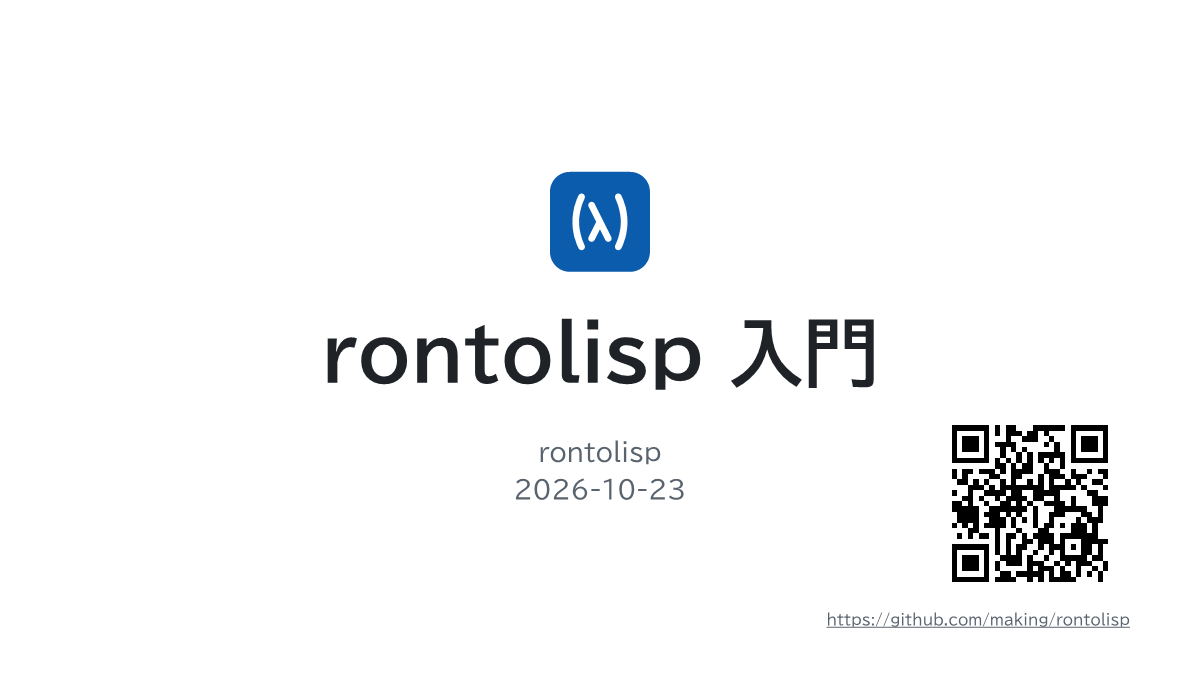
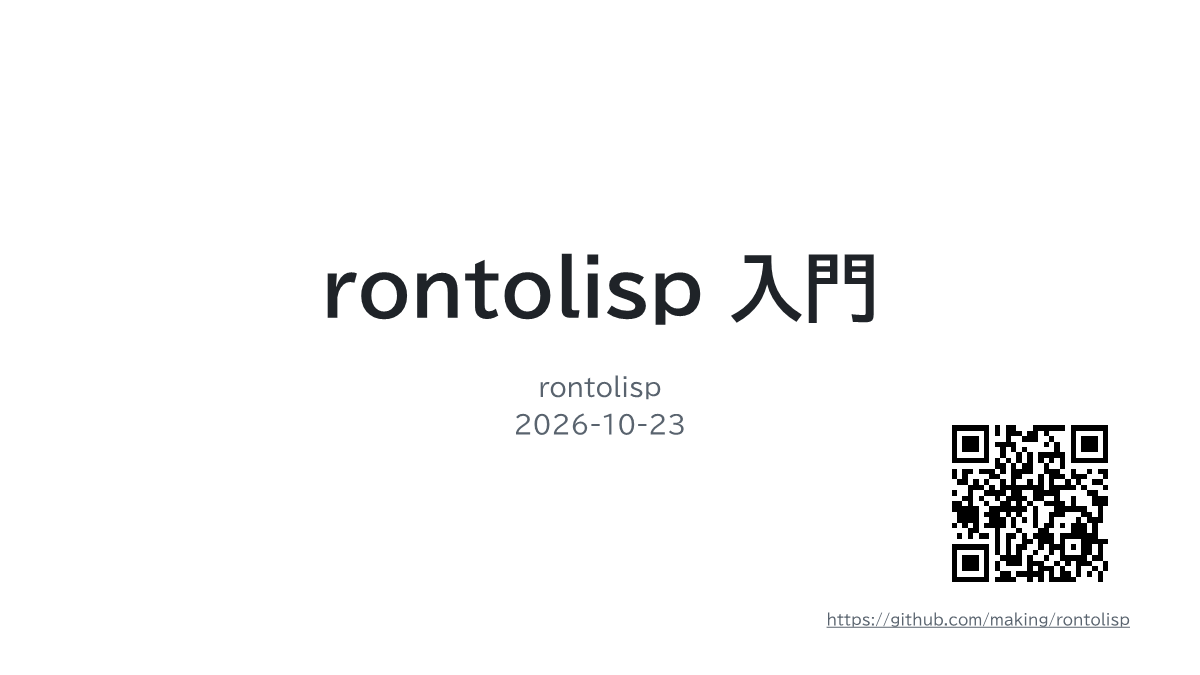
Rewrite the rontolisp intro deck around what rontolisp does
Proofread the Japanese, drop the slides and remarks about what is not
implemented, add the current ANSI test suite pass count, and remove the
placeholder logo from the title slide.

Changed region(s): [[0.2467, 0.2489, 0.5858, 0.6844], [0.6167, 0.3733, 0.74, 0.5911], [0.4317, 0.7156, 0.5858, 0.7467]]

diff --git a/decks/rontolisp-intro/rontolisp-intro.html b/decks/rontolisp-intro/rontolisp-intro.html
@@ -4,11 +4,11 @@
 <meta charset="utf-8">
 <meta name="viewport" content="width=device-width,initial-scale=1">
 <title>rontolisp 入門</title>
-<meta name="description" content="Java で実装した Common Lisp のサブセット rontolisp の入門。インストール、言語、インタプリタ・JVM・WASM・ネイティブの各バックエンド、ライブラリまで">
+<meta name="description" content="Java で実装した Common Lisp 処理系 rontolisp の入門。インストールから言語、インタプリタ・JVM・WASM・ネイティブの各バックエンド、ライブラリまでを紹介する">
 <meta property="og:type" content="website">
 <meta property="og:url" content="https://making.github.io/rontolisp/decks/rontolisp-intro/rontolisp-intro.html">
 <meta property="og:title" content="rontolisp 入門">
-<meta property="og:description" content="Java で実装した Common Lisp のサブセット rontolisp の入門。インストール、言語、インタプリタ・JVM・WASM・ネイティブの各バックエンド、ライブラリまで">
+<meta property="og:description" content="Java で実装した Common Lisp 処理系 rontolisp の入門。インストールから言語、インタプリタ・JVM・WASM・ネイティブの各バックエンド、ライブラリまでを紹介する">
 <meta property="og:image" content="https://making.github.io/rontolisp/decks/rontolisp-intro/rontolisp-intro.png">
 <meta property="og:image:width" content="1200">
 <meta property="og:image:height" content="675">
@@ -176,7 +176,7 @@ html:not(.js) #fs{display:none}
 <div id="stage">
 <div id="deck" style="width:1920px;height:1080px">
 <section class="slide layout-title" id="s1" style="--stmt:120px;--stmt-lh:162px;">
[1 lines of base64/hex data omitted]
+<div class="centered"><h1 class="deck-title">rontolisp 入門</h1><p class="deck-meta">rontolisp</p><p class="deck-meta">2026<span class="nw">-1</span>0<span class="nw">-2</span>3</p></div>
 <div class="qr right" style="left:1350px;top:646px;width:458px"><svg class="qr-code" viewBox="0 0 37 37" width="320" height="320" role="img" aria-label="QR code: https://github.com/making/rontolisp" shape-rendering="crispEdges"><rect width="37" height="37" fill="#fff"/><path fill="#000" d="M4 4h7v1h-7zM12 4h1v1h-1zM14 4h2v1h-2zM19 4h6v1h-6zM26 4h7v1h-7zM4 5h1v1h-1zM10 5h1v1h-1zM12 5h1v1h-1zM14 5h3v1h-3zM18 5h2v1h-2zM21 5h1v1h-1zM26 5h1v1h-1zM32 5h1v1h-1zM4 6h1v1h-1zM6 6h3v1h-3zM10 6h1v1h-1zM14 6h1v1h-1zM17 6h3v1h-3zM22 6h1v1h-1zM26 6h1v1h-1zM28 6h3v1h-3zM32 6h1v1h-1zM4 7h1v1h-1zM6 7h3v1h-3zM10 7h1v1h-1zM12 7h4v1h-4zM21 7h1v1h-1zM23 7h1v1h-1zM26 7h1v1h-1zM28 7h3v1h-3zM32 7h1v1h-1zM4 8h1v1h-1zM6 8h3v1h-3zM10 8h1v1h-1zM13 8h1v1h-1zM15 8h1v1h-1zM17 8h1v1h-1zM23 8h1v1h-1zM26 8h1v1h-1zM28 8h3v1h-3zM32 8h1v1h-1zM4 9h1v1h-1zM10 9h1v1h-1zM13 9h1v1h-1zM16 9h1v1h-1zM18 9h1v1h-1zM20 9h5v1h-5zM26 9h1v1h-1zM32 9h1v1h-1zM4 10h7v1h-7zM12 10h1v1h-1zM14 10h1v1h-1zM16 10h1v1h-1zM18 10h1v1h-1zM20 10h1v1h-1zM22 10h1v1h-1zM24 10h1v1h-1zM26 10h7v1h-7zM12 11h2v1h-2zM15 11h1v1h-1zM17 11h2v1h-2zM21 11h1v1h-1zM24 11h1v1h-1zM4 12h1v1h-1zM6 12h2v1h-2zM9 12h3v1h-3zM13 12h1v1h-1zM15 12h4v1h-4zM21 12h3v1h-3zM26 12h1v1h-1zM29 12h1v1h-1zM31 12h2v1h-2zM4 13h1v1h-1zM6 13h1v1h-1zM11 13h2v1h-2zM15 13h2v1h-2zM20 13h1v1h-1zM22 13h3v1h-3zM26 13h3v1h-3zM32 13h1v1h-1zM5 14h2v1h-2zM8 14h1v1h-1zM10 14h1v1h-1zM13 14h1v1h-1zM15 14h1v1h-1zM18 14h1v1h-1zM20 14h1v1h-1zM22 14h1v1h-1zM25 14h1v1h-1zM27 14h1v1h-1zM30 14h2v1h-2zM7 15h3v1h-3zM11 15h1v1h-1zM13 15h8v1h-8zM22 15h5v1h-5zM28 15h1v1h-1zM32 15h1v1h-1zM4 16h1v1h-1zM7 16h1v1h-1zM10 16h4v1h-4zM15 16h2v1h-2zM19 16h5v1h-5zM29 16h2v1h-2zM6 17h2v1h-2zM9 17h1v1h-1zM12 17h1v1h-1zM14 17h4v1h-4zM19 17h2v1h-2zM23 17h1v1h-1zM26 17h1v1h-1zM30 17h3v1h-3zM4 18h2v1h-2zM7 18h1v1h-1zM10 18h1v1h-1zM13 18h2v1h-2zM16 18h1v1h-1zM18 18h1v1h-1zM21 18h4v1h-4zM26 18h1v1h-1zM30 18h3v1h-3zM4 19h5v1h-5zM11 19h7v1h-7zM19 19h1v1h-1zM23 19h6v1h-6zM31 19h1v1h-1zM5 20h4v1h-4zM10 20h3v1h-3zM14 20h1v1h-1zM16 20h1v1h-1zM19 20h1v1h-1zM22 20h3v1h-3zM28 20h2v1h-2zM31 20h1v1h-1zM5 21h4v1h-4zM11 21h3v1h-3zM15 21h1v1h-1zM17 21h1v1h-1zM19 21h1v1h-1zM22 21h1v1h-1zM27 21h1v1h-1zM29 21h3v1h-3zM4 22h1v1h-1zM6 22h1v1h-1zM8 22h1v1h-1zM10 22h4v1h-4zM15 22h1v1h-1zM19 22h1v1h-1zM21 22h2v1h-2zM24 22h1v1h-1zM26 22h3v1h-3zM30 22h1v1h-1zM7 23h2v1h-2zM12 23h1v1h-1zM16 23h1v1h-1zM20 23h2v1h-2zM26 23h3v1h-3zM30 23h1v1h-1zM5 24h1v1h-1zM7 24h1v1h-1zM9 24h2v1h-2zM12 24h1v1h-1zM14 24h2v1h-2zM17 24h1v1h-1zM19 24h4v1h-4zM24 24h7v1h-7zM12 25h1v1h-1zM14 25h1v1h-1zM17 25h2v1h-2zM20 25h3v1h-3zM24 25h1v1h-1zM28 25h5v1h-5zM4 26h7v1h-7zM12 26h1v1h-1zM14 26h1v1h-1zM16 26h2v1h-2zM20 26h1v1h-1zM22 26h3v1h-3zM26 26h1v1h-1zM28 26h2v1h-2zM31 26h1v1h-1zM4 27h1v1h-1zM10 27h1v1h-1zM12 27h1v1h-1zM14 27h1v1h-1zM16 27h1v1h-1zM19 27h1v1h-1zM22 27h1v1h-1zM24 27h1v1h-1zM28 27h2v1h-2zM31 27h1v1h-1zM4 28h1v1h-1zM6 28h3v1h-3zM10 28h1v1h-1zM13 28h4v1h-4zM18 28h1v1h-1zM21 28h1v1h-1zM24 28h5v1h-5zM30 28h2v1h-2zM4 29h1v1h-1zM6 29h3v1h-3zM10 29h1v1h-1zM12 29h1v1h-1zM14 29h3v1h-3zM18 29h3v1h-3zM23 29h1v1h-1zM25 29h1v1h-1zM27 29h3v1h-3zM32 29h1v1h-1zM4 30h1v1h-1zM6 30h3v1h-3zM10 30h1v1h-1zM12 30h1v1h-1zM18 30h1v1h-1zM20 30h3v1h-3zM24 30h1v1h-1zM27 30h1v1h-1zM30 30h1v1h-1zM32 30h1v1h-1zM4 31h1v1h-1zM10 31h1v1h-1zM13 31h2v1h-2zM16 31h5v1h-5zM22 31h1v1h-1zM24 31h2v1h-2zM27 31h1v1h-1zM29 31h1v1h-1zM31 31h1v1h-1zM4 32h7v1h-7zM12 32h4v1h-4zM18 32h1v1h-1zM20 32h1v1h-1zM22 32h5v1h-5zM31 32h1v1h-1z"/></svg><p><a href="https://github.com/making/rontolisp">https://github.com/making/rontolisp</a></p></div>
 </section>
 <section class="slide layout-standard" id="s2" style="--title:80px;--title-lh:104px;--body:56px;--body-lh:84px;--gap:33px;--indent:68px;--item-gap:14px;--code:44px;--code-lh:62px;--code-pad:22px;">
@@ -193,46 +193,37 @@ html:not(.js) #fs{display:none}
 </div>
 <div class="page">3</div>
 </section>
-<section class="slide layout-standard" id="s4" style="--title:80px;--title-lh:104px;--body:52px;--body-lh:78px;--gap:31px;--indent:63px;--item-gap:13px;--code:40px;--code-lh:56px;--code-pad:20px;">
+<section class="slide layout-standard" id="s4" style="--title:80px;--title-lh:104px;--body:56px;--body-lh:84px;--gap:33px;--indent:68px;--item-gap:14px;--code:44px;--code-lh:62px;--code-pad:22px;">
 <p class="kicker">rontolisp とは</p>
-<h1 class="title">Java で<wbr>実装した Common Lisp の<wbr>サブセット</h1>
-<div class="body" style="top:336px;height:672px">
+<h1 class="title">Java で<wbr>実装した Common Lisp 処理系</h1>
+<div class="body" style="top:232px;height:776px">
 <p>一つの<wbr>ソースを、<wbr>三つの<wbr>実行モードで<wbr>動かす。</p>
 <ul><li><strong>インタプリタ</strong> REPL と<wbr>ファイル実行。<wbr>ツリーウォークで<wbr>評価する</li><li><strong>JVM コンパイラ</strong> <code>.class</code> や <code>.jar</code> を<wbr>出力する</li><li><strong>WASM コンパイラ</strong> wasm<span class="nw">-G</span>C を<wbr>使った <code>.wasm</code> を<wbr>出力する</li></ul>
-<p>コアライブラリは<wbr>外部依存を<wbr>持たない。<wbr>JVM と WASM の<wbr>バイトコードも、<wbr>ASM などの<wbr>ライブラリを<wbr>使わずに<wbr>出力する。</p>
+<p>コアライブラリは<wbr>外部依存を<wbr>持たない。<wbr>JVM と WASM の<wbr>バイトコードは、<wbr>ASM などの<wbr>ライブラリを<wbr>使わずに<wbr>生成する。</p>
 </div>
 <div class="page">4</div>
 </section>
-<section class="slide layout-standard" id="s5" style="--title:80px;--title-lh:104px;--body:56px;--body-lh:84px;--gap:33px;--indent:68px;--item-gap:14px;--code:44px;--code-lh:62px;--code-pad:22px;">
-<p class="kicker">rontolisp とは</p>
-<h1 class="title">なぜ<wbr>サブセットなのか</h1>
-<div class="body" style="top:232px;height:712px">
-<ul><li>インタプリタ、<wbr>JVM、<wbr>WASM で<wbr>同じように<wbr>動く</li><li>ランタイムの<wbr>メタオブジェクトプロトコルなしで<wbr>バイトコードへ<wbr>直接コンパイルできるよう、<wbr>言語を<wbr>小さく<wbr>保つ</li><li>その<wbr>ため、<wbr>完全な Common Lisp の<wbr>機能の<wbr>多くを<wbr>意図的に<wbr>省いている</li></ul>
-</div>
-<p class="source">doc/ja/guides/missing<span class="nw">-f</span>eatures.md</p>
-<div class="page">5</div>
-</section>
-<section class="slide layout-standard" id="s6" data-steps="1" style="--title:80px;--title-lh:104px;--body:56px;--body-lh:84px;--gap:33px;--indent:68px;--item-gap:14px;--code:44px;--code-lh:62px;--code-pad:22px;">
+<section class="slide layout-standard" id="s5" data-steps="1" style="--title:80px;--title-lh:104px;--body:56px;--body-lh:84px;--gap:33px;--indent:68px;--item-gap:14px;--code:44px;--code-lh:62px;--code-pad:22px;">
 <p class="kicker">rontolisp とは</p>
 <h1 class="title">まず<wbr>動かしてみる</h1>
 <div class="body" style="top:232px;height:776px">
-<p>この<wbr>スライドの<wbr>コードは<wbr>ブラウザの<wbr>中の rontolisp が<wbr>実行する。<wbr>クリックで<wbr>編集し、<wbr>Run で<wbr>実行する。</p>
-<div class="codebox runnable" data-lang="lisp" data-timeout="10"><pre class="code" aria-describedby="s6c1"><code>(<span class="hl-d">defun</span> fact (n)
+<p>この<wbr>デッキの<wbr>コードは、<wbr>ブラウザ上の rontolisp で<wbr>実行できる。<wbr>クリックして<wbr>編集し、<wbr>Run で<wbr>実行する。</p>
+<div class="codebox runnable" data-lang="lisp" data-timeout="10"><pre class="code" aria-describedby="s5c1"><code>(<span class="hl-d">defun</span> fact (n)
   (<span class="hl-d">if</span> (= n <span class="hl-n">0</span>) <span class="hl-n">1</span> (* n (fact (- n <span class="hl-n">1</span>)))))
 (print (fact <span class="hl-n">10</span>))</code></pre></div>
 </div>
-<div class="say step" id="s6c1" role="note" data-side="below" data-step="1" data-at="(fact 10)" style="left:159px;top:677px;width:573px;height:90px;--say:44px;--say-lh:62px;--say-x:22px;--say-y:11px;--tail:283px"><p>Run で 3628800&nbsp;が<wbr>出る</p></div>
-<div class="page">6</div>
+<div class="say step" id="s5c1" role="note" data-side="below" data-step="1" data-at="(fact 10)" style="left:159px;top:677px;width:573px;height:90px;--say:44px;--say-lh:62px;--say-x:22px;--say-y:11px;--tail:283px"><p>Run で 3628800&nbsp;が<wbr>出る</p></div>
+<div class="page">5</div>
 <aside class="notes">Run を押す。続けて (fact 30) に書き換えて実行し、多倍長整数になることを見せる。</aside>
 </section>
-<section class="slide layout-standard" id="s7" style="--title:80px;--title-lh:104px;--body:56px;--body-lh:84px;--gap:33px;--indent:68px;--item-gap:14px;--code:44px;--code-lh:62px;--code-pad:22px;">
+<section class="slide layout-standard" id="s6" style="--title:80px;--title-lh:104px;--body:56px;--body-lh:84px;--gap:33px;--indent:68px;--item-gap:14px;--code:44px;--code-lh:62px;--code-pad:22px;">
 <h1 class="title">話の<wbr>流れ</h1>
 <div class="body" style="top:232px;height:776px">
 <ol class="agenda"><li>rontolisp とは</li><li class="current">インストールと<wbr>最初の<wbr>実行</li><li>言語</li><li>バックエンド</li><li>連携と<wbr>ライブラリ</li><li>次の<wbr>一歩</li></ol>
 </div>
-<div class="page">7</div>
+<div class="page">6</div>
 </section>
-<section class="slide layout-standard" id="s8" style="--title:80px;--title-lh:104px;--body:56px;--body-lh:84px;--gap:33px;--indent:68px;--item-gap:14px;--code:36px;--code-lh:51px;--code-pad:18px;">
+<section class="slide layout-standard" id="s7" style="--title:80px;--title-lh:104px;--body:56px;--body-lh:84px;--gap:33px;--indent:68px;--item-gap:14px;--code:36px;--code-lh:51px;--code-pad:18px;">
 <p class="kicker">インストールと<wbr>最初の<wbr>実行</p>
 <h1 class="title">インストール</h1>
 <div class="body" style="top:232px;height:776px">
@@ -244,9 +235,9 @@ html:not(.js) #fs{display:none}
 <span class="hl-k">$</span> rontolisp --version</code></pre>
 <ul><li>Linux の x86<span class="nw">-6</span>4&nbsp;と ARM64&nbsp;向けも<wbr>ある</li><li>Java 25&nbsp;以降が<wbr>あれば、<wbr>実行可能 JAR でも<wbr>動く</li></ul>
 </div>
-<div class="page">8</div>
+<div class="page">7</div>
 </section>
-<section class="slide layout-standard" id="s9" style="--title:80px;--title-lh:104px;--body:48px;--body-lh:72px;--gap:28px;--indent:58px;--item-gap:12px;--code:36px;--code-lh:51px;--code-pad:18px;">
+<section class="slide layout-standard" id="s8" style="--title:80px;--title-lh:104px;--body:48px;--body-lh:72px;--gap:28px;--indent:58px;--item-gap:12px;--code:36px;--code-lh:51px;--code-pad:18px;">
 <p class="kicker">インストールと<wbr>最初の<wbr>実行</p>
 <h1 class="title">REPL</h1>
 <div class="body" style="top:232px;height:776px">
@@ -261,20 +252,20 @@ html:not(.js) #fs{display:none}
 <span class="hl-c">CL-USER&gt; (quit)</span></code></pre>
 <p>プロンプトには<wbr>現在の<wbr>パッケージ名が<wbr>出る。<wbr>括弧が<wbr>閉じるまで<wbr>複数行を<wbr>読む。</p>
 </div>
-<div class="page">9</div>
+<div class="page">8</div>
 </section>
-<section class="slide layout-columns" id="s10" style="--title:80px;--title-lh:104px;--body:56px;--body-lh:84px;--gap:33px;--indent:68px;--item-gap:14px;--code:40px;--code-lh:56px;--code-pad:20px;">
+<section class="slide layout-columns" id="s9" style="--title:80px;--title-lh:104px;--body:48px;--body-lh:72px;--gap:28px;--indent:58px;--item-gap:12px;--code:36px;--code-lh:51px;--code-pad:18px;">
 <p class="kicker">インストールと<wbr>最初の<wbr>実行</p>
 <h1 class="title">ファイルを<wbr>実行する</h1>
 <div class="body" style="top:232px;height:776px">
 <div class="columns">
-<div class="column" style="width:680px">
+<div class="column" style="width:612px">
 <pre class="code" data-lang="lisp"><code><span class="hl-c">;; program.lisp</span>
 (<span class="hl-d">defun</span> square (x) (* x x))
 (print (square <span class="hl-n">5</span>))
 (print (square <span class="hl-n">12</span>))</code></pre>
 </div>
-<div class="column" style="width:936px">
+<div class="column" style="width:1004px">
 <pre class="code console" data-lang="console"><code><span class="hl-k">$</span> rontolisp program.lisp
 
 <span class="hl-c">25</span>
@@ -282,33 +273,43 @@ html:not(.js) #fs{display:none}
 <span class="hl-k">$</span> rontolisp -e &quot;(print (+ 1 2))&quot;
 
 <span class="hl-c">3</span></code></pre>
-<ul><li>REPL と<wbr>違い、<wbr>値を<wbr>エコーしない</li><li>エラーで<wbr>終わると、<wbr>終了コードが 0&nbsp;以外に<wbr>なる</li></ul>
+<ul><li>REPL と<wbr>違い、<wbr>評価した<wbr>値を<wbr>表示しない</li><li>エラーで<wbr>終わると、<wbr>終了コードが 0&nbsp;以外に<wbr>なる</li></ul>
 </div>
 </div>
 </div>
-<div class="page">10</div>
+<div class="page">9</div>
 </section>
-<section class="slide layout-table" id="s11" style="--title:80px;--title-lh:104px;--body:52px;--body-lh:78px;--gap:31px;--indent:63px;--item-gap:13px;--code:40px;--code-lh:56px;--code-pad:20px;">
+<section class="slide layout-table" id="s10" style="--title:80px;--title-lh:104px;--body:52px;--body-lh:78px;--gap:31px;--indent:63px;--item-gap:13px;--code:40px;--code-lh:56px;--code-pad:20px;">
 <p class="kicker">インストールと<wbr>最初の<wbr>実行</p>
 <h1 class="title">コマンドの<wbr>一覧</h1>
 <div class="body" style="top:232px;height:776px">
-<table style="--table:44px;--table-lh:62px;--cell-x:26px;--cell-y:11px;width:1696px"><colgroup><col style="width:790px"><col style="width:906px"></colgroup><thead><tr><th scope="col">コマンド</th><th scope="col">動作</th></tr></thead><tbody><tr><td><code>rontolisp</code></td><td>REPL</td></tr><tr><td><code>rontolisp app.lisp</code></td><td>ファイルを<wbr>インタプリタで<wbr>実行</td></tr><tr><td><code>rontolisp <span class="nw">-e</span> &quot;(...)&quot;</code></td><td>引数の<wbr>プログラムを<wbr>実行</td></tr><tr><td><code>rontolisp app.lisp <span class="nw">-o</span> OUT</code></td><td>コンパイル。<wbr><code>OUT</code> の<wbr>拡張子で<wbr>出力を<wbr>選ぶ</td></tr><tr><td><code>rontolisp format src/</code></td><td>ソースを<wbr>正規の<wbr>レイアウトに<wbr>再インデント</td></tr><tr><td><code>rontolisp test tests/main.lisp</code></td><td>rove の<wbr>テストを<wbr>実行し、<wbr>結果を<wbr>終了コードに<wbr>する</td></tr></tbody></table>
+<table style="--table:44px;--table-lh:62px;--cell-x:26px;--cell-y:11px;width:1696px"><colgroup><col style="width:786px"><col style="width:910px"></colgroup><thead><tr><th scope="col">コマンド</th><th scope="col">動作</th></tr></thead><tbody><tr><td><code>rontolisp</code></td><td>REPL</td></tr><tr><td><code>rontolisp app.lisp</code></td><td>ファイルを<wbr>インタプリタで<wbr>実行</td></tr><tr><td><code>rontolisp <span class="nw">-e</span> &quot;(...)&quot;</code></td><td>引数の<wbr>プログラムを<wbr>実行</td></tr><tr><td><code>rontolisp app.lisp <span class="nw">-o</span> OUT</code></td><td>コンパイル。<wbr><code>OUT</code> の<wbr>拡張子で<wbr>出力を<wbr>選ぶ</td></tr><tr><td><code>rontolisp format src/</code></td><td>ソースを<wbr>正規の<wbr>レイアウトに<wbr>インデントし直す</td></tr><tr><td><code>rontolisp test tests/main.lisp</code></td><td>rove の<wbr>テストを<wbr>実行し、<wbr>結果を<wbr>終了コードで<wbr>返す</td></tr></tbody></table>
 </div>
-<div class="page">11</div>
+<div class="page">10</div>
 </section>
-<section class="slide layout-standard" id="s12" style="--title:80px;--title-lh:104px;--body:56px;--body-lh:84px;--gap:33px;--indent:68px;--item-gap:14px;--code:44px;--code-lh:62px;--code-pad:22px;">
+<section class="slide layout-standard" id="s11" style="--title:80px;--title-lh:104px;--body:56px;--body-lh:84px;--gap:33px;--indent:68px;--item-gap:14px;--code:44px;--code-lh:62px;--code-pad:22px;">
 <h1 class="title">話の<wbr>流れ</h1>
 <div class="body" style="top:232px;height:776px">
 <ol class="agenda"><li>rontolisp とは</li><li>インストールと<wbr>最初の<wbr>実行</li><li class="current">言語</li><li>バックエンド</li><li>連携と<wbr>ライブラリ</li><li>次の<wbr>一歩</li></ol>
 </div>
+<div class="page">11</div>
+</section>
+<section class="slide layout-table" id="s12" style="--title:80px;--title-lh:104px;--body:52px;--body-lh:78px;--gap:31px;--indent:63px;--item-gap:13px;--code:40px;--code-lh:56px;--code-pad:20px;">
+<p class="kicker">言語</p>
+<h1 class="title">Common Lisp の<wbr>主な<wbr>機能</h1>
+<div class="body" style="top:232px;height:776px">
+<table style="--table:44px;--table-lh:62px;--cell-x:26px;--cell-y:11px;width:1696px"><colgroup><col style="width:711px"><col style="width:985px"></colgroup><thead><tr><th scope="col">機能</th><th scope="col">主な<wbr>フォーム</th></tr></thead><tbody><tr><td>マクロ</td><td><code>defmacro</code>、<wbr>バッククォート、<wbr><code>macroexpand</code></td></tr><tr><td>CLOS</td><td><code>defclass</code>、<wbr><code>defgeneric</code>、<wbr><code>defmethod</code></td></tr><tr><td>コンディションと<wbr>リスタート</td><td><code>handler<span class="nw">-c</span>ase</code>、<wbr><code>restart<span class="nw">-c</span>ase</code></td></tr><tr><td>多値</td><td><code>values</code>、<wbr><code>multiple<span class="nw">-v</span>alue<span class="nw">-b</span>ind</code></td></tr><tr><td>繰り返し</td><td><code>loop</code>、<wbr><code>dolist</code>、<wbr><code>dotimes</code></td></tr><tr><td>数値</td><td>多倍長整数、<wbr>有理数、<wbr>浮動小数点数</td></tr></tbody></table>
+</div>
 <div class="page">12</div>
 </section>
-<section class="slide layout-table" id="s13" style="--title:80px;--title-lh:104px;--body:48px;--body-lh:72px;--gap:28px;--indent:58px;--item-gap:12px;--code:36px;--code-lh:51px;--code-pad:18px;">
+<section class="slide layout-standard" id="s13" style="--title:80px;--title-lh:104px;--body:56px;--body-lh:84px;--gap:33px;--indent:68px;--item-gap:14px;--code:44px;--code-lh:62px;--code-pad:22px;">
 <p class="kicker">言語</p>
-<h1 class="title">使える Common Lisp の<wbr>範囲</h1>
-<div class="body" style="top:232px;height:776px">
-<table style="--table:40px;--table-lh:56px;--cell-x:24px;--cell-y:10px;width:1696px"><caption>詳しくは<wbr>「未対応の CL 機能」<wbr>の<wbr>ページに<wbr>ある</caption><colgroup><col style="width:601px"><col style="width:1095px"></colgroup><thead><tr><th scope="col">機能</th><th scope="col">状況</th></tr></thead><tbody><tr><td>マクロ、<wbr>バッククォート</td><td>使える</td></tr><tr><td>コンディションと<wbr>リスタート</td><td>使える。<wbr>デバッガとの<wbr>統合は<wbr>ない</td></tr><tr><td>多値</td><td>使える</td></tr><tr><td>CLOS</td><td>一部。<wbr>静的な<wbr>サブセットと、<wbr>定義時の MOP の<wbr>サブセット</td></tr><tr><td><code>loop</code></td><td>一部 (拡張版)</td></tr><tr><td><code>eval<span class="nw">-w</span>hen</code></td><td><code>progn</code> と<wbr>して<wbr>扱う</td></tr></tbody></table>
+<h1 class="title">ANSI Common Lisp テストスイート</h1>
+<div class="body" style="top:232px;height:712px">
+<p>19,769&nbsp;件の<wbr>テストの<wbr>うち <span class="accent"><strong>16,511&nbsp;件</strong></span> が<wbr>通過している (83.5%)。</p>
+<ul><li>計測の<wbr>対象は<wbr>インタプリタ</li><li>CI が<wbr>毎日<wbr>スイート全体を<wbr>実行し、<wbr>通過数が<wbr>変わる<wbr>たびに<wbr>結果を<wbr>記録する</li><li>対応する<wbr>機能を<wbr>増やし、<wbr>通過数を<wbr>引き続き上げていく</li></ul>
 </div>
+<p class="source">ansi<span class="nw">-t</span>est/results/interpreter.md (2026<span class="nw">-1</span>0<span class="nw">-2</span>1&nbsp;時点、<wbr>スイートの<wbr>リビジョン ca06bd9)</p>
 <div class="page">13</div>
 </section>
 <section class="slide layout-standard" id="s14" style="--title:80px;--title-lh:104px;--body:52px;--body-lh:78px;--gap:31px;--indent:63px;--item-gap:13px;--code:40px;--code-lh:56px;--code-pad:20px;">
@@ -344,9 +345,9 @@ html:not(.js) #fs{display:none}
 </section>
 <section class="slide layout-standard" id="s16" style="--title:80px;--title-lh:104px;--body:56px;--body-lh:84px;--gap:33px;--indent:68px;--item-gap:14px;--code:44px;--code-lh:62px;--code-pad:22px;">
 <p class="kicker">言語</p>
-<h1 class="title">Scheme の<wbr>フロントエンド (実験的)</h1>
+<h1 class="title">Scheme の<wbr>フロントエンド</h1>
 <div class="body" style="top:232px;height:776px">
-<p><code>.scm</code> の<wbr>ファイルを、<wbr>R7RS<span class="nw">-s</span>mall の<wbr>一部と<wbr>して<wbr>読む。</p>
+<p><code>.scm</code> の<wbr>ファイルを Scheme と<wbr>して<wbr>読む。<wbr><code>(scheme base)</code> などの R7RS<span class="nw">-s</span>mall の<wbr>ライブラリを<wbr>使える。</p>
 <div class="codebox runnable" data-lang="scheme" data-timeout="10"><pre class="code"><code>(import (scheme base) (scheme write))
 (<span class="hl-d">define</span> (count-up n)
   (<span class="hl-d">let</span> loop ((i <span class="hl-n">0</span>) (acc &#39;()))
@@ -359,9 +360,9 @@ html:not(.js) #fs{display:none}
 </section>
 <section class="slide layout-standard" id="s17" style="--title:80px;--title-lh:104px;--body:56px;--body-lh:84px;--gap:33px;--indent:68px;--item-gap:14px;--code:40px;--code-lh:56px;--code-pad:20px;">
 <p class="kicker">言語</p>
-<h1 class="title">Clojure の<wbr>フロントエンド (実験的)</h1>
+<h1 class="title">Clojure の<wbr>フロントエンド</h1>
 <div class="body" style="top:232px;height:776px">
-<p><code>.clj</code> と <code>.cljc</code> を、<wbr>Clojure の<wbr>小さな<wbr>サブセットと<wbr>して<wbr>読む。</p>
+<p><code>.clj</code> と <code>.cljc</code> の<wbr>ファイルを Clojure と<wbr>して<wbr>読む。</p>
 <div class="codebox runnable" data-lang="clojure" data-timeout="10"><pre class="code"><code>(<span class="hl-d">defn</span> fact [n]
   (<span class="hl-d">if</span> (&lt; n <span class="hl-n">2</span>) <span class="hl-n">1</span> (* n (fact (- n <span class="hl-n">1</span>)))))
 (println (fact <span class="hl-n">20</span>))
@@ -370,12 +371,12 @@ html:not(.js) #fs{display:none}
 </div>
 <div class="page">17</div>
 </section>
-<section class="slide layout-standard" id="s18" style="--title:80px;--title-lh:104px;--body:48px;--body-lh:72px;--gap:28px;--indent:58px;--item-gap:12px;--code:36px;--code-lh:51px;--code-pad:18px;">
+<section class="slide layout-standard" id="s18" style="--title:80px;--title-lh:104px;--body:56px;--body-lh:84px;--gap:33px;--indent:68px;--item-gap:14px;--code:44px;--code-lh:62px;--code-pad:22px;">
 <p class="kicker">言語</p>
 <h1 class="title">言語は<wbr>ファイルごとに<wbr>決まる</h1>
 <div class="body" style="top:232px;height:776px">
-<table style="--table:40px;--table-lh:56px;--cell-x:24px;--cell-y:10px;width:1696px"><colgroup><col style="width:848px"><col style="width:848px"></colgroup><thead><tr><th scope="col">拡張子</th><th scope="col">言語</th></tr></thead><tbody><tr><td><code>.lisp .asd</code></td><td>Common Lisp</td></tr><tr><td><code>.scm</code></td><td>Scheme</td></tr><tr><td><code>.clj .cljc</code></td><td>Clojure</td></tr><tr><td>それ以外</td><td><code><span class="nw">--s</span>ource<span class="nw">-l</span>anguage</code> で<wbr>指定する</td></tr></tbody></table>
-<ul><li>一つの<wbr>プログラムに<wbr>複数の<wbr>言語の<wbr>ファイルを<wbr>混ぜられる</li><li>どの<wbr>言語も<wbr>同じ<wbr>コアフォームに<wbr>変換され、<wbr>すべての<wbr>バックエンドで<wbr>動く</li><li>Scheme と Clojure は<wbr>実験的。<wbr>動かし続けたい<wbr>ものは Common Lisp で<wbr>書く</li></ul>
+<table style="--table:48px;--table-lh:68px;--cell-x:28px;--cell-y:12px;width:1696px"><colgroup><col style="width:848px"><col style="width:848px"></colgroup><thead><tr><th scope="col">拡張子</th><th scope="col">言語</th></tr></thead><tbody><tr><td><code>.lisp .asd</code></td><td>Common Lisp</td></tr><tr><td><code>.scm</code></td><td>Scheme</td></tr><tr><td><code>.clj .cljc</code></td><td>Clojure</td></tr><tr><td>それ以外</td><td><code><span class="nw">--s</span>ource<span class="nw">-l</span>anguage</code> で<wbr>指定する</td></tr></tbody></table>
+<ul><li>一つの<wbr>プログラムに<wbr>複数の<wbr>言語の<wbr>ファイルを<wbr>混ぜられる</li><li>どの<wbr>言語も<wbr>同じ<wbr>コアフォームに<wbr>変換され、<wbr>すべての<wbr>バックエンドで<wbr>動く</li></ul>
 </div>
 <div class="page">18</div>
 </section>
@@ -394,7 +395,7 @@ html:not(.js) #fs{display:none}
 <svg class="dg-art" width="1157" height="432" aria-hidden="true"><rect class="dg-b" x="0" y="0" width="517" height="168" rx="12"/><rect class="dg-b" x="589" y="0" width="488" height="168" rx="12"/><rect class="dg-b" x="0" y="264" width="296" height="168" rx="12"/><rect class="dg-b" x="368" y="264" width="789" height="168" rx="12"/><rect class="dg-f" x="4" y="4" width="509" height="160" rx="8"/><rect class="dg-f" x="593" y="4" width="480" height="160" rx="8"/><rect class="dg-f" x="4" y="268" width="288" height="160" rx="8"/><rect class="dg-f" x="372" y="268" width="781" height="160" rx="8"/><rect class="dg-e" x="525" y="82" width="37" height="4"/><polygon class="dg-e" points="562,72 581,84 562,96"/><rect class="dg-e" x="831" y="176" width="4" height="42"/><rect class="dg-e" x="146" y="214" width="689" height="4"/><rect class="dg-e" x="146" y="214" width="4" height="23"/><polygon class="dg-e" points="136,237 148,256 160,237"/><rect class="dg-e" x="304" y="346" width="37" height="4"/><polygon class="dg-e" points="341,336 360,348 341,360"/></svg>
 <ol class="dg-flow"><li class="dg-l" style="left:0px;top:0px;width:517px;height:168px;padding-top:16px">ソース (CL、<wbr>Scheme、<wbr>Clojure)</li><li class="dg-l" style="left:589px;top:0px;width:488px;height:168px;padding-top:50px">コアフォームに<wbr>変換</li><li class="dg-l" style="left:0px;top:264px;width:296px;height:168px;padding-top:50px">マクロ展開</li><li class="dg-l" style="left:368px;top:264px;width:789px;height:168px;padding-top:50px">インタプリタ、<code>.class</code>、<code>.wasm</code></li></ol>
 </figure>
-<ul><li>言語の<wbr>違いは<wbr>最初の<wbr>変換で<wbr>吸収する</li><li>バックエンドは Scheme や Clojure の<wbr>名前を<wbr>知らない</li></ul>
+<ul><li>言語の<wbr>違いは<wbr>最初の<wbr>変換で<wbr>吸収する</li><li>バックエンドが<wbr>受け取るのは、<wbr>どの<wbr>言語でも<wbr>同じ<wbr>コアフォーム</li></ul>
 </div>
 <div class="page">20</div>
 </section>
@@ -412,18 +413,18 @@ html:not(.js) #fs{display:none}
 </div>
 <div class="page">21</div>
 </section>
-<section class="slide layout-columns" id="s22" style="--title:80px;--title-lh:104px;--body:52px;--body-lh:78px;--gap:31px;--indent:63px;--item-gap:13px;--code:40px;--code-lh:56px;--code-pad:20px;">
+<section class="slide layout-columns" id="s22" style="--title:80px;--title-lh:104px;--body:56px;--body-lh:84px;--gap:33px;--indent:68px;--item-gap:14px;--code:44px;--code-lh:62px;--code-pad:22px;">
 <p class="kicker">バックエンド</p>
 <h1 class="title">JVM と WASM</h1>
 <div class="body" style="top:232px;height:776px">
 <div class="columns">
-<div class="column" style="width:774px">
+<div class="column" style="width:808px">
 <p><strong>JVM</strong></p>
 <ul><li><code>.jar</code> は <code>java <span class="nw">-j</span>ar</code> で<wbr>動く</li><li>Java の<wbr>ライブラリにも<wbr>できる</li></ul>
 </div>
-<div class="column" style="width:842px">
+<div class="column" style="width:808px">
 <p><strong>WASM</strong></p>
-<ul><li>既定は WASI Preview 1</li><li><code><span class="nw">--c</span>omponent</code> で WASI 0.3</li><li><code><span class="nw">--n</span>o<span class="nw">-w</span>asi</code> で<wbr>インポートなし</li><li><code><span class="nw">--n</span>o<span class="nw">-g</span>c</code> で<wbr>任意の<wbr>エンジン向け (数値と<wbr>文字列のみ)</li></ul>
+<ul><li>既定は WASI Preview 1</li><li><code><span class="nw">--c</span>omponent</code> で WASI 0.3</li><li><code><span class="nw">--n</span>o<span class="nw">-w</span>asi</code> で<wbr>インポートなし</li><li><code><span class="nw">--n</span>o<span class="nw">-g</span>c</code> で wasm<span class="nw">-G</span>C の<wbr>ない<wbr>エンジン向け</li></ul>
 </div>
 </div>
 </div>
@@ -457,7 +458,7 @@ html:not(.js) #fs{display:none}
 <p class="kicker">バックエンド</p>
 <h1 class="title">インタプリタは<wbr>試行錯誤に<wbr>使う</h1>
 <div class="body" style="top:232px;height:776px">
-<ul><li>即座に<wbr>起動し、<wbr>コンパイラと<wbr>同じ<wbr>意味で<wbr>実行する</li><li>I/O が<wbr>中心の<wbr>スクリプトなら、<wbr>速さの<wbr>差は<wbr>表に<wbr>出にくい</li><li>CPU を<wbr>使い切る<wbr>処理は、<wbr>コンパイルした<wbr>成果物で<wbr>動かす</li></ul>
+<ul><li>すぐに<wbr>起動し、<wbr>コンパイル後と<wbr>同じ<wbr>意味で<wbr>実行する</li><li>I/O が<wbr>中心の<wbr>スクリプトなら、<wbr>速さの<wbr>差は<wbr>表に<wbr>出にくい</li><li>CPU 負荷の<wbr>高い<wbr>処理は、<wbr>コンパイルしてから<wbr>動かす</li></ul>
 <pre class="code console" data-lang="console"><code><span class="hl-k">$</span> rontolisp program.lisp -o program.jar
 <span class="hl-k">$</span> java -jar program.jar</code></pre>
 </div>
@@ -482,11 +483,11 @@ html:not(.js) #fs{display:none}
 <p class="kicker">連携と<wbr>ライブラリ</p>
 <h1 class="title">Java 連携</h1>
 <div class="body" style="top:232px;height:776px">
-<p><code>java</code> パッケージが、<wbr>リフレクションで<wbr>任意の Java API を<wbr>呼ぶ。</p>
+<p><code>java</code> パッケージの<wbr>関数で、<wbr>任意の Java API を<wbr>リフレクション経由で<wbr>呼べる。</p>
 <pre class="code" data-lang="lisp"><code>(java:call (java:new <span class="hl-s">&quot;java.lang.StringBuilder&quot;</span> <span class="hl-s">&quot;ab&quot;</span>) <span class="hl-s">&quot;length&quot;</span>)  <span class="hl-c">; =&gt; 2</span>
 (java:static <span class="hl-s">&quot;java.lang.Math&quot;</span> <span class="hl-s">&quot;max&quot;</span> <span class="hl-n">3</span> <span class="hl-n">7</span>)                        <span class="hl-c">; =&gt; 7</span>
 (java:field <span class="hl-s">&quot;java.lang.Integer&quot;</span> <span class="hl-s">&quot;MAX_VALUE&quot;</span>)                    <span class="hl-c">; =&gt; 2147483647</span></code></pre>
-<ul><li>JVM 上の<wbr>インタプリタと、<wbr>コンパイルした <code>.class</code> で<wbr>動く</li><li>WASM は<wbr>ホストの<wbr>オブジェクトを<wbr>表せないので、<wbr>コンパイルを<wbr>拒否する</li></ul>
+<p>JVM 上の<wbr>インタプリタと、<wbr>コンパイルした <code>.class</code> で<wbr>使える。</p>
 </div>
 <div class="page">28</div>
 </section>
@@ -519,15 +520,15 @@ html:not(.js) #fs{display:none}
 <span class="hl-c">(split-sequence)</span>
 <span class="hl-c">CL-USER&gt; (split-sequence:split-sequence #\, &quot;a,b,c&quot;)</span>
 <span class="hl-c">(&quot;a&quot; &quot;b&quot; &quot;c&quot;)</span></code></pre>
-<ul><li><code>ql:quickload</code> は Quicklisp の<wbr>配布物から<wbr>取得し、<wbr><code>~/.rontolisp/quicklisp/</code> に<wbr>キャッシュする</li><li>alexandria、<wbr>cl<span class="nw">-p</span>pcre、<wbr>cl<span class="nw">-w</span>ho、<wbr>jzon、<wbr>chipz などを、<wbr>上流の<wbr>ソースの<wbr>まま 4&nbsp;つの<wbr>バックエンドで<wbr>動かしている</li></ul>
+<ul><li><code>ql:quickload</code> は Quicklisp の<wbr>配布物から<wbr>取得し、<wbr><code>~/.rontolisp/quicklisp/</code> に<wbr>キャッシュする</li><li>alexandria、<wbr>cl<span class="nw">-p</span>pcre、<wbr>cl<span class="nw">-w</span>ho、<wbr>jzon、<wbr>chipz などが、<wbr>上流の<wbr>ソースの<wbr>まま<wbr>インタプリタ、<wbr>JVM、<wbr>WASM で<wbr>動く</li></ul>
 </div>
 <div class="page">30</div>
 </section>
-<section class="slide layout-table" id="s31" style="--title:80px;--title-lh:104px;--body:48px;--body-lh:72px;--gap:28px;--indent:58px;--item-gap:12px;--code:36px;--code-lh:51px;--code-pad:18px;">
+<section class="slide layout-table" id="s31" style="--title:80px;--title-lh:104px;--body:52px;--body-lh:78px;--gap:31px;--indent:63px;--item-gap:13px;--code:40px;--code-lh:56px;--code-pad:20px;">
 <p class="kicker">連携と<wbr>ライブラリ</p>
 <h1 class="title">その<wbr>ほかの<wbr>組み込みパッケージ</h1>
 <div class="body" style="top:232px;height:776px">
-<table style="--table:40px;--table-lh:56px;--cell-x:24px;--cell-y:10px;width:1696px"><caption>動く<wbr>バックエンドは<wbr>パッケージごとに<wbr>違う。<wbr>各ガイドを<wbr>参照</caption><colgroup><col style="width:684px"><col style="width:1012px"></colgroup><thead><tr><th scope="col">パッケージ</th><th scope="col">用途</th></tr></thead><tbody><tr><td><code>uiop</code></td><td>環境変数、<wbr>ファイル、<wbr>ディレクトリなど (一部を<wbr>実装)</td></tr><tr><td><code>rove</code>、<wbr><code>rontolisp test</code></td><td>テスト</td></tr><tr><td><code>rontolisp:fetch</code></td><td>HTTP リクエスト</td></tr><tr><td><code>clack</code></td><td>Web アプリケーション</td></tr><tr><td><code>linalg</code>、<wbr><code>torch</code></td><td>線形代数と<wbr>ニューラルネットワーク</td></tr><tr><td><code>cffi</code></td><td>C ライブラリの<wbr>呼び出し (JVM)</td></tr><tr><td><code>objc</code>、<wbr><code>appkit</code></td><td>macOS の GUI</td></tr></tbody></table>
+<table style="--table:44px;--table-lh:62px;--cell-x:26px;--cell-y:11px;width:1696px"><caption>使える<wbr>バックエンドは<wbr>パッケージごとに<wbr>異なる。<wbr>詳しくは<wbr>各ガイドに<wbr>ある</caption><colgroup><col style="width:848px"><col style="width:848px"></colgroup><thead><tr><th scope="col">パッケージ</th><th scope="col">用途</th></tr></thead><tbody><tr><td><code>uiop</code></td><td>環境変数、<wbr>ファイル、<wbr>ディレクトリなど</td></tr><tr><td><code>rove</code>、<wbr><code>rontolisp test</code></td><td>テスト</td></tr><tr><td><code>rontolisp:fetch</code></td><td>HTTP リクエスト</td></tr><tr><td><code>clack</code></td><td>Web アプリケーション</td></tr><tr><td><code>linalg</code>、<wbr><code>torch</code></td><td>線形代数と<wbr>ニューラルネットワーク</td></tr><tr><td><code>cffi</code></td><td>C ライブラリの<wbr>呼び出し (JVM)</td></tr><tr><td><code>objc</code>、<wbr><code>appkit</code></td><td>macOS の GUI</td></tr></tbody></table>
 </div>
 <div class="page">31</div>
 </section>
